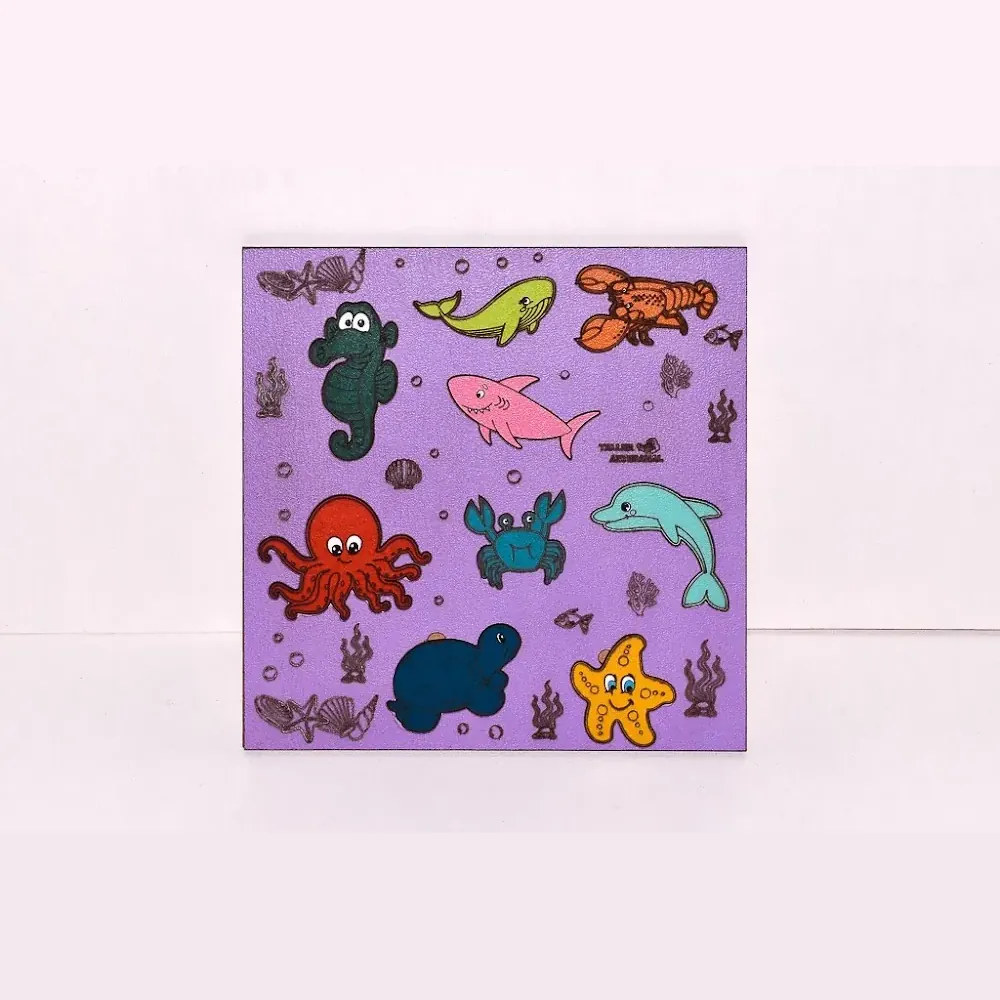
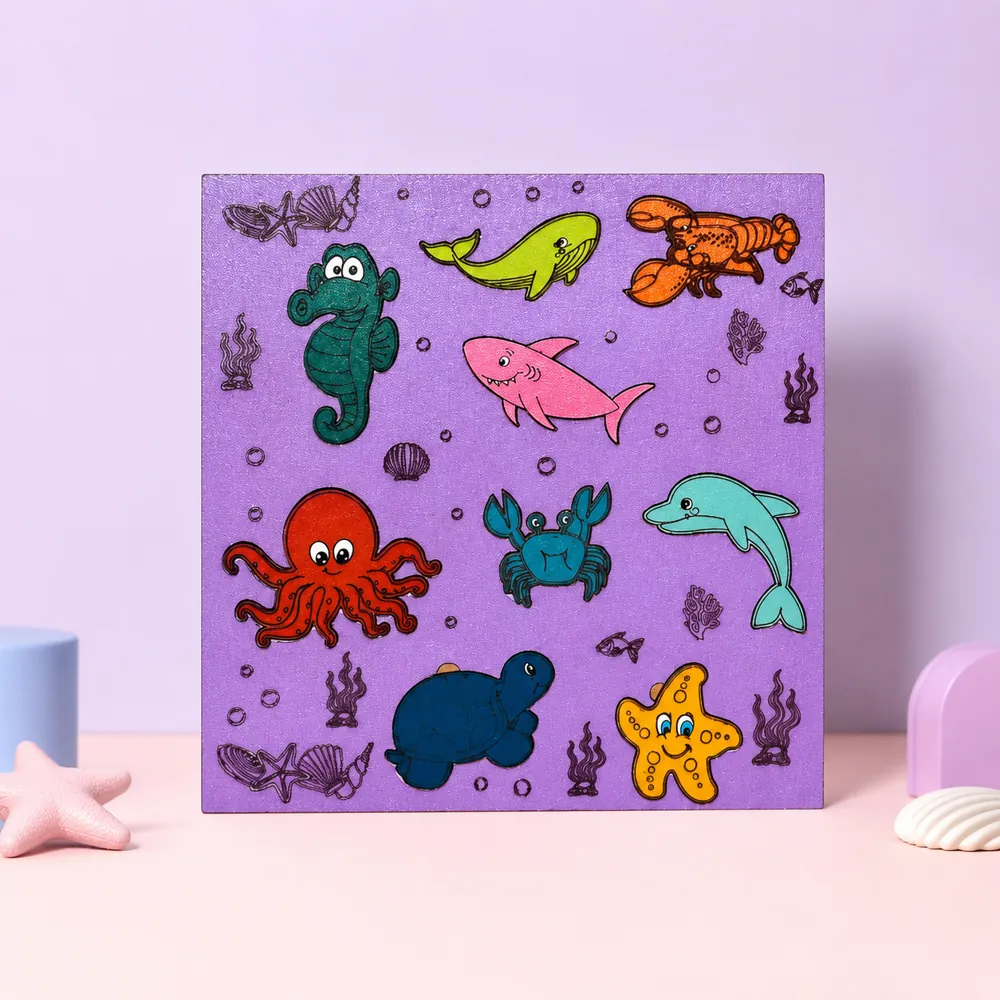
Fotos nuevas de 10 rompecabezas 25x25 + producto Correspondencia del 1 al 10
Pez, Pavo Real, Animales de Mar, Tangram, Figuras Geométricas 2/3/4,
Figuras Geométricas con Números, Mariposa y Animales de la Selva.
Nuevo: Correspondencia del 1 al 10 (id 152, Lúdicos, 4-5 años, $7.000),
con foto propia en img/ (driveIdDe ahora reconoce rutas img/<id>.webp).

Claude-Session: https://claude.ai/code/session_01BnRRk6A5kvKoeyxz5UZzgy

diff --git a/index.html b/index.html
@@ -758,6 +758,7 @@ const PRODUCTOS = [
   { id:100, nombre:'Abecedario Grande', categoria:'Educativos', edades:['4 años','5 años','6 años','7 años o más'], precio:11000, img:'https://drive.google.com/thumbnail?id=10C4amuQ-ma5i18miJuKdjGRA8hlxLuz0&sz=w400', emoji:'🔤' , desc:'Abecedario grande en madera con letras manipulables para trabajar el reconocimiento de letras y el inicio de la lectoescritura. Recurso fundamental para sala de 5 y primer grado.' },
   { id:101, nombre:'Mapa de Tucumán', categoria:'Mapas', edades:['3 años','4 años','5 años','6 años','7 años o más'], precio:6000, img:'https://drive.google.com/thumbnail?id=1xgcSjQURvJMaD4-MXbkfXR2euCo9Rq4I&sz=w400', emoji:'🗺' , desc:'Mapa de Argentina en madera con sus provincias encastrables. Recurso fundamental para las ciencias sociales, trabajando ubicación espacial y reconocimiento del territorio.' },
   { id:109, nombre:'Librito para Colorear + 6 Lápices', categoria:'Lúdicos', edades:['3 años','4 años','5 años'], precio:1700, img:'https://drive.google.com/thumbnail?id=17EDE2izAD_y-WutaLXkz0rn5eN-5RrEg&sz=w400', emoji:'🎨' , desc:'Librito para colorear con 6 lápices incluidos. Estimula la creatividad, la expresión artística y la motricidad fina.' },
+  { id:152, nombre:'Correspondencia del 1 al 10', categoria:'Lúdicos', edades:['4 años','5 años'], precio:7000, img:'img/correspondencia-1-al-10.webp', emoji:'🔢' , desc:'Rompecabezas de correspondencia número-cantidad del 1 al 10: cada número encastra con la pieza que tiene esa misma cantidad de puntos. Trabaja el conteo, la asociación del número con la cantidad y la motricidad fina.' },
 
   // ===== DUPLICADOS MULTI-CATEGORÍA =====
   { id:111, nombre:'Rompecabezas 10x10', categoria:'Rompecabezas', edades:['3 años','4 años','5 años'], precio:1400, img:'https://drive.google.com/thumbnail?id=1_u_q9rU8QaRGETFG-UM6_Ah1euKI2cfM&sz=w400', emoji:'🧩' , desc:'Rompecabezas de madera de 10x10 cm de madera que estimula la concentración, la motricidad fina y el reconocimiento de formas. Elaborado artesanalmente en Tucumán.' },
@@ -824,7 +825,7 @@ carrito = Object.fromEntries(Object.entries(carrito).map(([k,v])=>[k,v]));
 let categoriaActual = 'todas';
 
 // FOTOS: primero la copia propia (carpeta img/ del sitio), si no está, la de Drive.
-function driveIdDe(url){ const m=(url||'').match(/[?&]id=([\w-]+)/)||(url||'').match(/\/d\/([\w-]+)/); return m?m[1]:''; }
+function driveIdDe(url){ const m=(url||'').match(/[?&]id=([\w-]+)/)||(url||'').match(/\/d\/([\w-]+)/)||(url||'').match(/^img\/(?:s\/)?([\w-]+)\.webp$/); return m?m[1]:''; }
 function fotosDe(url, grande){
   const id = driveIdDe(url);
   const local = id ? (grande ? `img/${id}.webp` : `img/s/${id}.webp`) : '';
